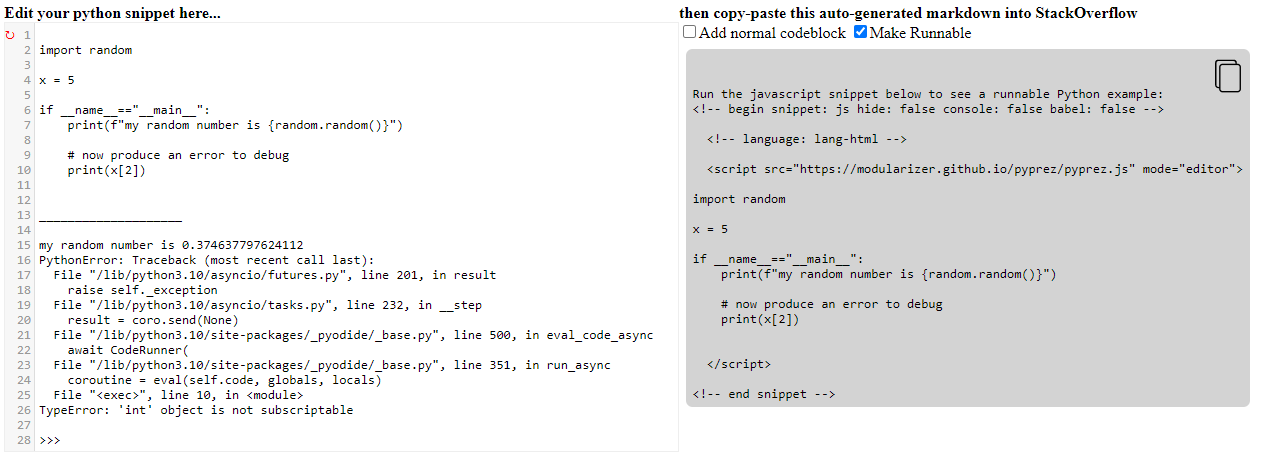
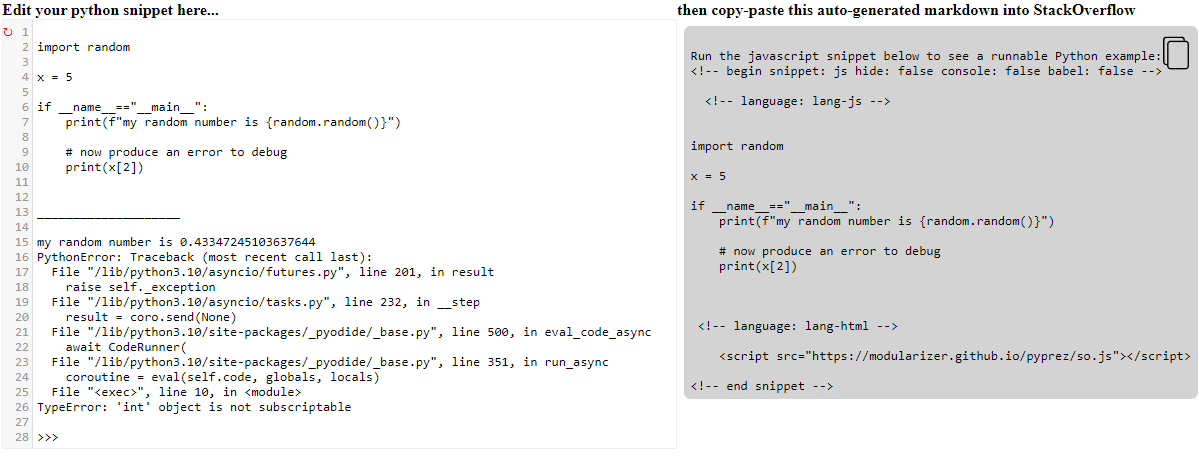
updated stack converter

diff --git a/pyprez.js b/pyprez.js
@@ -739,9 +739,6 @@ class StackOverflow extends HTMLElement{
         this.innerHTML = this.getInnerHTML()
         pyprez.addElement(this);
     }
-    get addCodeblock(){ return this.hasAttribute("codeblock")?(this.getAttribute("codeblock")==="true"):true}
-    get addRunnable(){ return this.hasAttribute("runnable")?(this.getAttribute("runnable")=="true"):true}
-
     get header(){
         return this._header
     }
@@ -782,30 +779,24 @@ class StackOverflow extends HTMLElement{
        rx="2" />
   </g>
 </svg>
-${this.getBlock()}
 ${this.getRunnable()}
 </pre>
         `
     }
-    getBlock(){
-        console.log("addBlock", this.addCodeblock)
-        let r = this.addRunnable?"\n":""
-        let b = "```python\n" + this.code + "\n```" + r
-        return this.addCodeblock?b:""
-    }
     getRunnable(){
-        console.log("addRunnable", this.addRunnable)
-        return this.addRunnable?`${this.header}
+        return `${this.header}
 &lt!-- begin snippet: js hide: false console: false babel: false --&gt
 
-  &lt!-- language: lang-html --&gt
+  &lt!-- language: lang-js --&gt
 
-  &ltscript src="https://modularizer.github.io/pyprez/pyprez.js" mode="editor"&gt
     ${this.code}
-  &lt/script&gt
+
+ &lt!-- language: lang-html --&gt
+
+    &ltscript src="https://modularizer.github.io/pyprez/so.js"&gt&lt/script&gt
 
 &lt!-- end snippet --&gt
-</pre>`:""
+</pre>`
     }
 }
 window.addEventListener("load", ()=>{
@@ -820,10 +811,6 @@ class StackOverflowConverter extends HTMLElement{
         console.warn("ih=", ih)
         let mode = this.hasAttribute("mode")?`mode=${this.getAttribute("mode")}`:"";
         let src = this.hasAttribute("src")?`src=${this.getAttribute("src")}`:"";
-        let cb = this.hasAttribute("codeblock")?`codeblock=${this.getAttribute("codeblock")}`:"";
-        let rb = this.hasAttribute("runnable")?`runnable=${this.getAttribute("runnable")}`:"";
-        let cbc = this.hasAttribute("codeblock")&(this.getAttribute("codeblock")=="false")?"":"checked"
-        let rbc = this.hasAttribute("runnable")&(this.getAttribute("runnable")=="false")?"":"checked"
         this.innerHTML = `
         <div style="display:flex">
             <div style="flex:50%">
@@ -840,36 +827,18 @@ class StackOverflowConverter extends HTMLElement{
                 </pyprez-editor>
             </div>
             <div style="flex:50%">
-                <input type="checkbox" ${cbc}>Add normal codeblock</input>
-                <input type="checkbox" ${rbc}>Make Runnable</input>
-                <stack-overflow ${cb} ${rb}>
-                </stack-overflow>
+                <stack-overflow></stack-overflow>
             </div>
         </div>
         `
-        this.codeblockCheck = this.children[1].children[1].children[0]
-        this.runnableCheck = this.children[1].children[1].children[1]
         this.pyprezEditor = this.children[1].children[0].children[0]
-        this.stackOverflow = this.children[1].children[1].children[2]
+        this.stackOverflow = this.children[1].children[1].children[0]
         this.sync()
-        this.codeblockCheck.addEventListener("change", this.codeblockChange.bind(this))
-        this.runnableCheck.addEventListener("change", this.runnableChange.bind(this))
         this.pyprezEditor.addEventListener("keydown", (()=>{setTimeout(this.sync.bind(this), 10)}).bind(this))
-    }
-    codeblockChange(){
-        this.stackOverflow.setAttribute("codeblock", this.codeblockCheck.checked?"true":"false")
-        this.sync()
-    }
-    runnableChange(){
-        console.warn(this.runnableCheck.checked)
-        this.stackOverflow.setAttribute("runnable", this.runnableCheck.checked?"true":"false")
-        this.sync()
     }
     sync(){
         this.stackOverflow.code = this.pyprezEditor.code
     }
-    get code(){return this.pyprezEditor.code}
-    set code(code){this.pyprezEditor.code=code}
 }
 window.addEventListener("load", ()=>{
     customElements.define("stack-converter",  StackOverflowConverter);

diff --git a/stackconverter.html b/stackconverter.html
@@ -12,10 +12,10 @@ import random
 x = 5
 
 if __name__=="__main__":
-    print(f"my random number is {random.random()}")
+        print(f"my random number is {random.random()}")
 
-    # now produce an error to debug
-    print(x[2])
+        # now produce an error to debug
+        print(x[2])
 </stack-converter>
 </body>
 </html>

diff --git a/README.md b/README.md
@@ -67,9 +67,7 @@ This is especially useful for questions which don't require a lot of slow import
 
 <img src="./sample_imgs/stack-converter.png" class="nonrendered"/>
 
-
-Unfortunately, the code snippet first shows up as javascript (because it is javascript), which could be a bit confusing 
-for some StackOverflow users. However, **if** the viewer clicks `Run Code Snippet`, they will be able to edit and
+**If** the viewer clicks `Run Code Snippet`, they will be able to edit and
 test a live python question/answer without leaving the page.
 
 **It will render something like this**
@@ -81,7 +79,7 @@ test a live python question/answer without leaving the page.
 ### StackOverflow Power User?
 Add a bookmark to your browser with the following text as the url.
 ```
-javascript:(()=>{let sel=window.getSelection().toString().split("\n").join("\n    "); navigator.clipboard.writeText('<!-- begin snippet: js hide: false console: false babel: false --> \n\n  <!-- language: lang-html --> \n\n  <script src="https://modularizer.github.io/pyprez/pyprez.js" mode="editor">\n    # your code here\n    ' + sel + '\n  </script>\n\n<!-- end snippet -->')})()
+javascript:(()=>{let sel=window.getSelection().toString().split("\n").join("\n    "); navigator.clipboard.writeText('<!-- begin snippet: js hide: false console: false babel: false --> \n\n  <!-- language: lang-js --> \n\n  ' + sel + '\n\n  <!-- language: lang-html --> \n\n  <script src="https://modularizer.github.io/pyprez/so.js"/><script>\n\n<!-- end snippet -->')})()
 ```
 First either highlight the python you want to use or copy it to your clipboard.
 Clicking on the bookmark will copy the code you need to your clipboard, then you can paste it into the StackOverflow question/answer.
